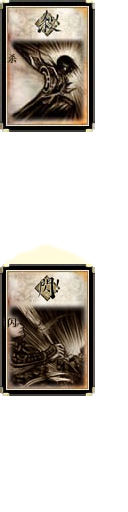
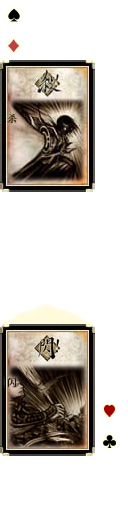
card display details

diff --git a/src/Application/InGame/CardEntityView.java b/src/Application/InGame/CardEntityView.java
@@ -2,10 +2,12 @@ package Application.InGame;
 
 import Game.Entity.CardEntity;
 
+import com.badlogic.gdx.graphics.Color;
 import com.badlogic.gdx.graphics.g2d.SpriteBatch;
 import com.badlogic.gdx.graphics.g2d.TextureRegion;
 import com.badlogic.gdx.scenes.scene2d.Actor;
 import com.badlogic.gdx.scenes.scene2d.InputEvent;
+import com.badlogic.gdx.scenes.scene2d.ui.Label;
 import com.badlogic.gdx.scenes.scene2d.utils.ClickListener;
 import com.badlogic.gdx.scenes.scene2d.actions.MoveByAction;
 import com.badlogic.gdx.scenes.scene2d.actions.ScaleToAction;
@@ -14,50 +16,55 @@ public class CardEntityView extends Actor{
 	
 	CardEntity card ;
 	TextureRegion image,glow;
-	ClickListener cl;
+	Selectable select;
 	
-	public boolean isSelected;
+	Label numberLabel;
+	TextureRegion suit;
 	
 	public CardEntityView(CardEntity ce)
 	{
 		this.setX(100);
 		this.setY(100);
+		select = new Selectable(this);
 		
 		card = ce;
 		image = DefaultSkin.instance.getRegion(card.type.fullName());
-		glow  = DefaultSkin.instance.getRegion("card/glow");
+		select.setTexture(DefaultSkin.instance.getRegion("card/glow"));
 		
-		this.addListener(cl = new ClickListener()
-		{
-			public void clicked (InputEvent event, float x, float y) {
-				isSelected = !isSelected;
-			}
-		});
+		numberLabel = new Label(String.valueOf(card.number),DefaultSkin.instance);
+		numberLabel.setColor(Color.BLACK);
+		
+		String suitName = "";
+		if(card.suit == 'S')suitName = "card/spade";
+		else if(card.suit == 'C')suitName = "card/club";
+		else if(card.suit == 'D')suitName = "card/diamond";
+		else if(card.suit == 'H')suitName = "card/heart";
+		
+		suit = DefaultSkin.instance.getRegion(suitName);
+		
 		this.setWidth(image.getRegionWidth());
 		this.setHeight(image.getRegionHeight());
 	}
 	
 	public void draw (SpriteBatch batch, float parentAlpha) {
 		batch.enableBlending();
-		
-		if(cl.isOver() || isSelected)batch.setColor(1f, 1f, 1f, 1f);
-		else batch.setColor(.5f, .5f, .5f, 1f);
 
+		batch.setColor(1f,1f,1f,1f);
 		batch.draw(image,
 				this.getX(),
 				this.getY(),
 				this.getWidth() * this.getScaleX(),
 				this.getHeight() * this.getScaleY());
 		
-		if(this.isSelected)
-		{	
-			batch.draw(glow,
-					this.getX(),
-					this.getY(),
-					this.getWidth() * this.getScaleX(),
-					this.getHeight() * this.getScaleY());
-			
-		}
+		numberLabel.setPosition(this.getX() + this.getWidth() - numberLabel.getPrefWidth() - 7
+				,this.getY() + this.getHeight() - numberLabel.getPrefHeight() - 5);
+		numberLabel.draw(batch,parentAlpha);
+		
+		batch.draw(suit,
+				numberLabel.getX() - 9,
+				numberLabel.getY() - suit.getRegionHeight() + 10);
+
+		select.draw(this, batch, parentAlpha);
 	} 
 	
 	@SuppressWarnings("unused")
@@ -66,7 +73,6 @@ public class CardEntityView extends Actor{
 
 		ScaleToAction sta = new ScaleToAction();
 		sta.setDuration(0.1f);
-		sta.setScale(isSelected ? 1.024f : 1.0f);
 		
 		float deltaScale = sta.getX() - getScaleX();
 		

diff --git a/src/Application/InGame/Selectable.java b/src/Application/InGame/Selectable.java
@@ -14,7 +14,7 @@ public class Selectable{
 	public boolean isSelected = false;
 	
 	private float r=1f,g=1f,b=1f;
-	private TextureRegion glow;
+	private TextureRegion glow,border;
 	private float intensity = 0f;
 	
 	private static int DURATION = 300;
@@ -29,6 +29,7 @@ public class Selectable{
 					isSelected = !isSelected;
 			}
 		});
+		glow = DefaultSkin.instance.getRegion("glow");
 	}
 	
 	public void setColor(float r,float g,float b)
@@ -36,6 +37,11 @@ public class Selectable{
 		this.r = r;
 		this.g = g;
 		this.b = b;
+	}
+	
+	public void setTexture(TextureRegion tr)
+	{
+		border = tr;
 	}
 	
 	public void draw (Actor actor, SpriteBatch batch, float parentAlpha) {
@@ -52,7 +58,6 @@ public class Selectable{
 		}
 		
 		batch.setBlendFunction(GL10.GL_SRC_ALPHA, GL10.GL_ONE);
-		glow = DefaultSkin.instance.getRegion("glow");
 		batch.setColor(r,g,b, OPACITY * intensity);
 		batch.draw(glow,
 				actor.getX(),
@@ -65,7 +70,13 @@ public class Selectable{
 		{
 			batch.setColor(r,g,b, 1f);
 			
+			if(border == null)
 			DefaultSkin.instance.getPatch("border").draw(batch,
+					actor.getX(),
+					actor.getY(),
+					actor.getWidth(),
+					actor.getHeight());
+			else batch.draw(border,
 					actor.getX(),
 					actor.getY(),
 					actor.getWidth(),

diff --git a/src/Application/InGame/DefaultSkin.java b/src/Application/InGame/DefaultSkin.java
@@ -33,6 +33,8 @@ public class DefaultSkin extends Skin{
 		
 		ButtonStyle bs = new ButtonStyle();
 		bs.up = this.getDrawable("banner");
+		bs.pressedOffsetX = 1;
+		bs.pressedOffsetY = -1;
 		this.add("default", bs);
 		
 		TextField.TextFieldStyle tfs = new TextField.TextFieldStyle();
